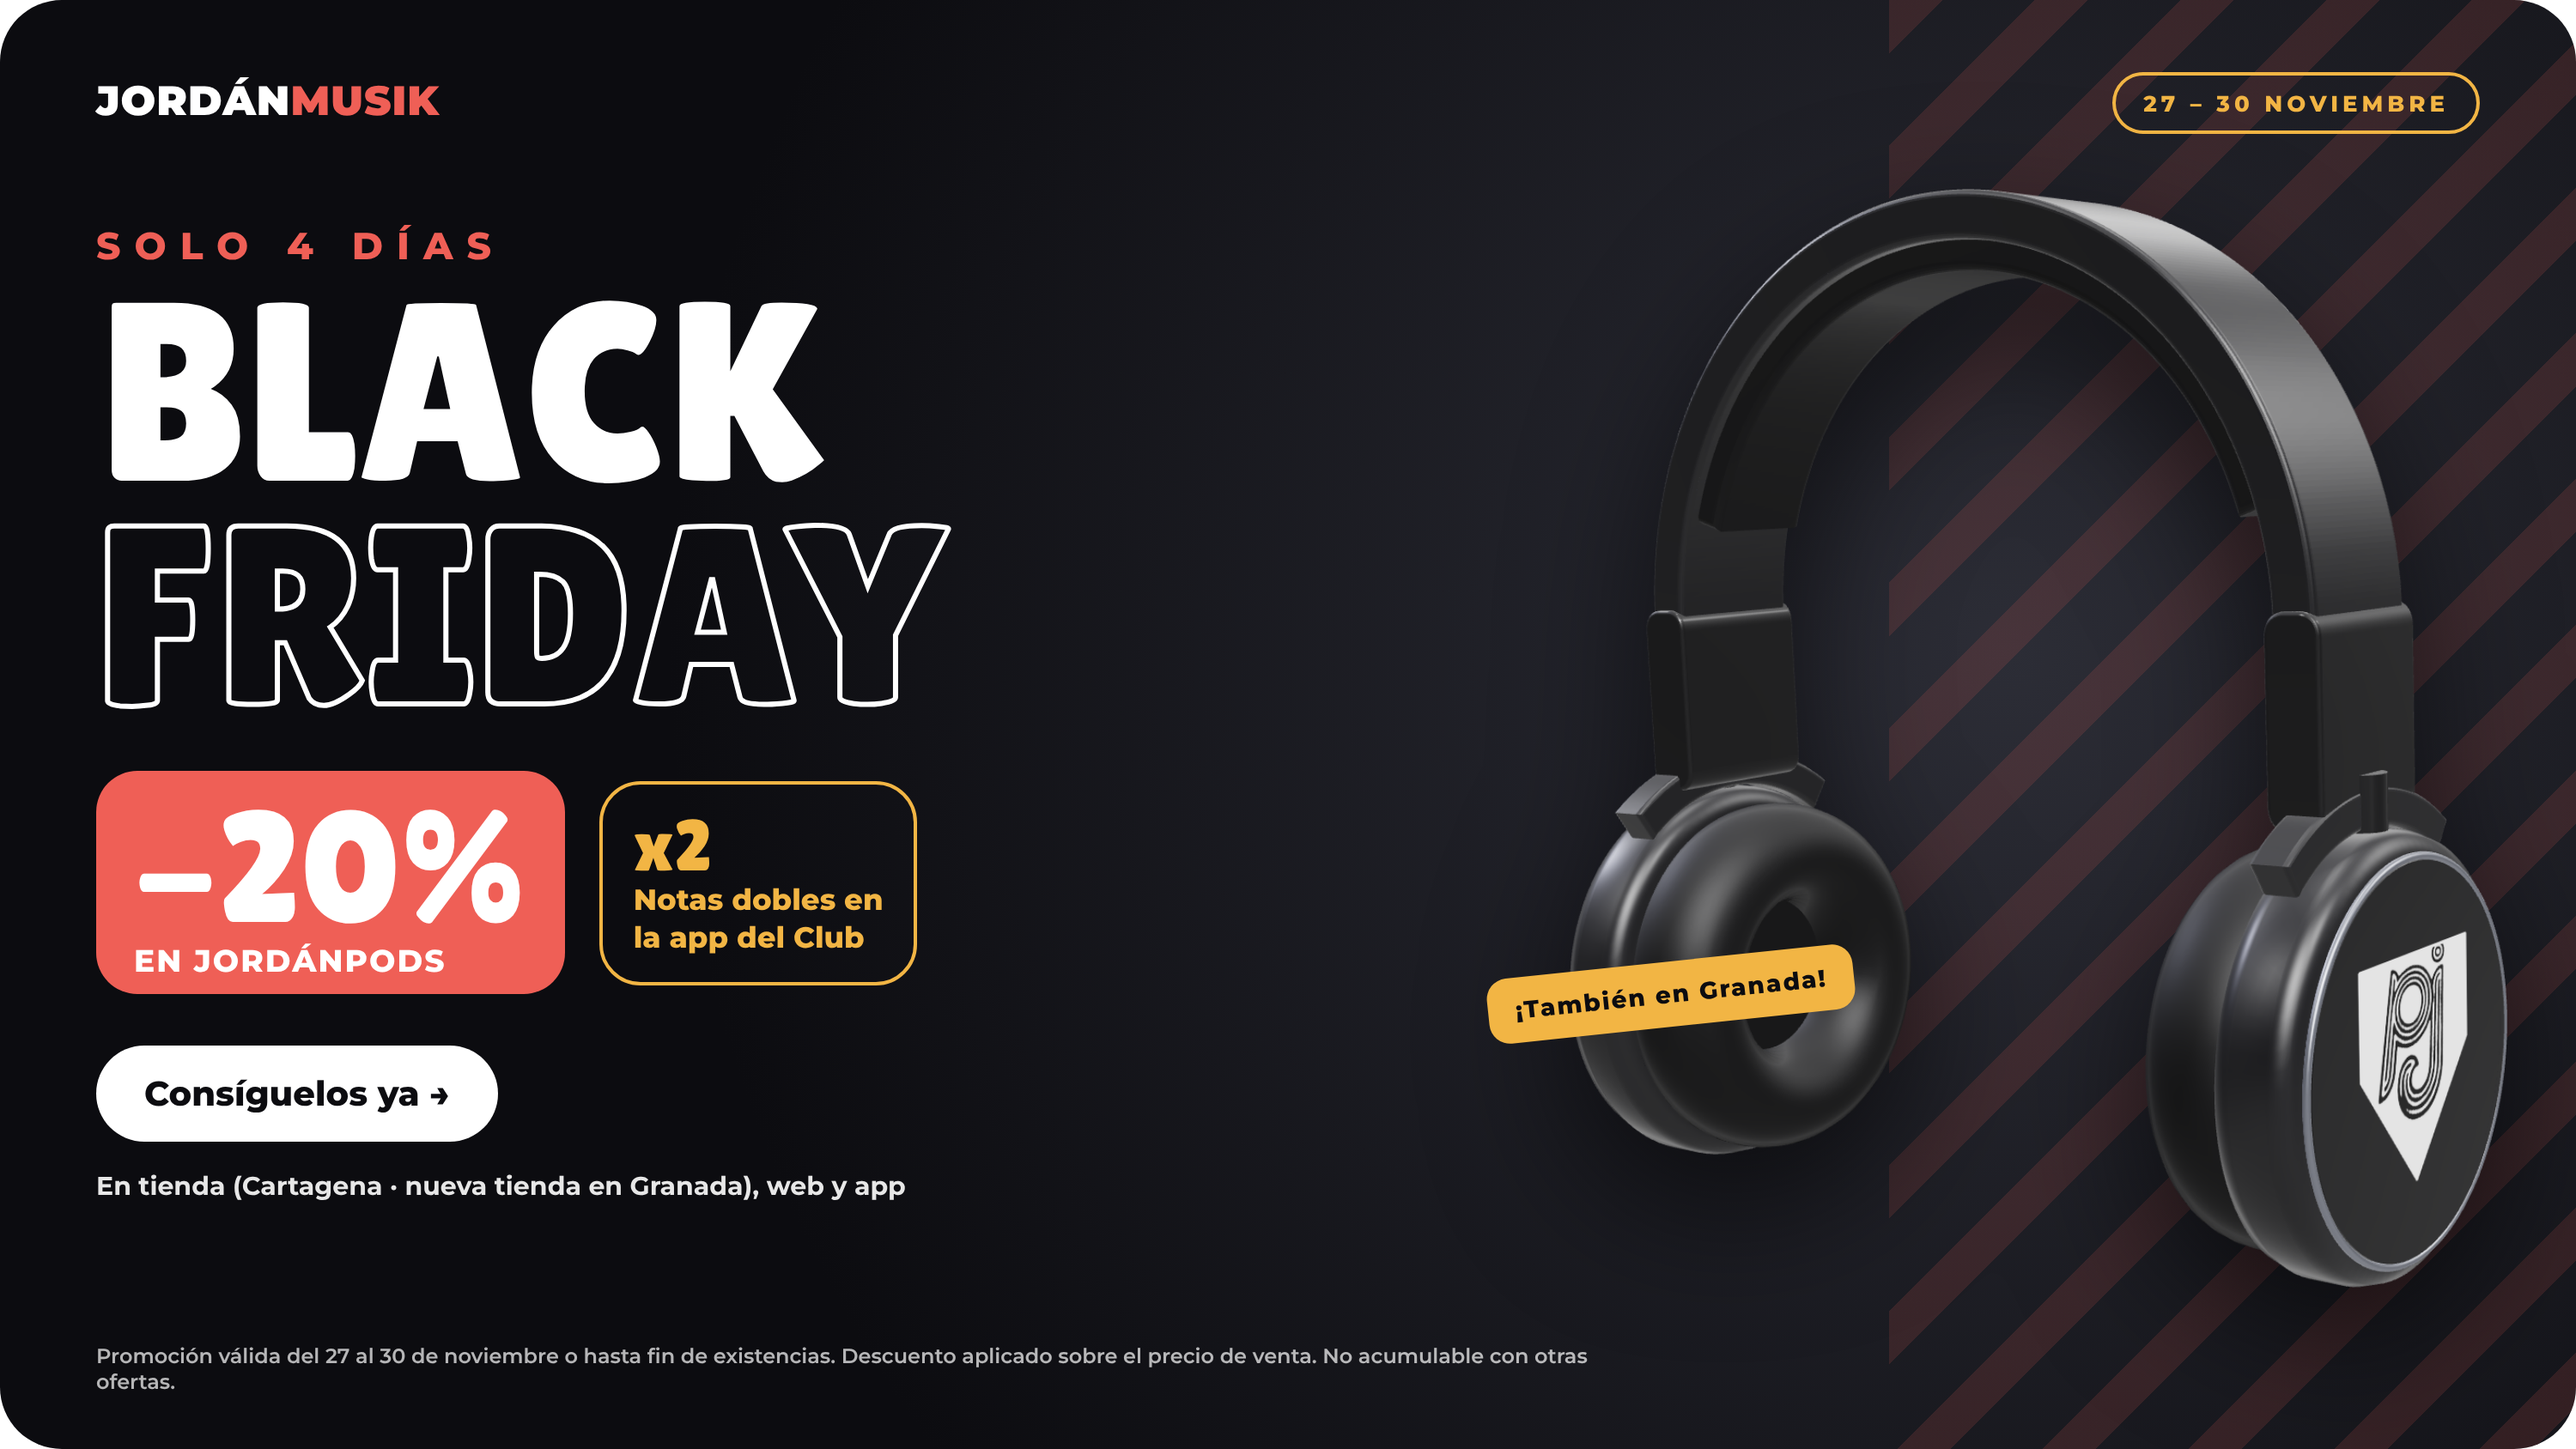
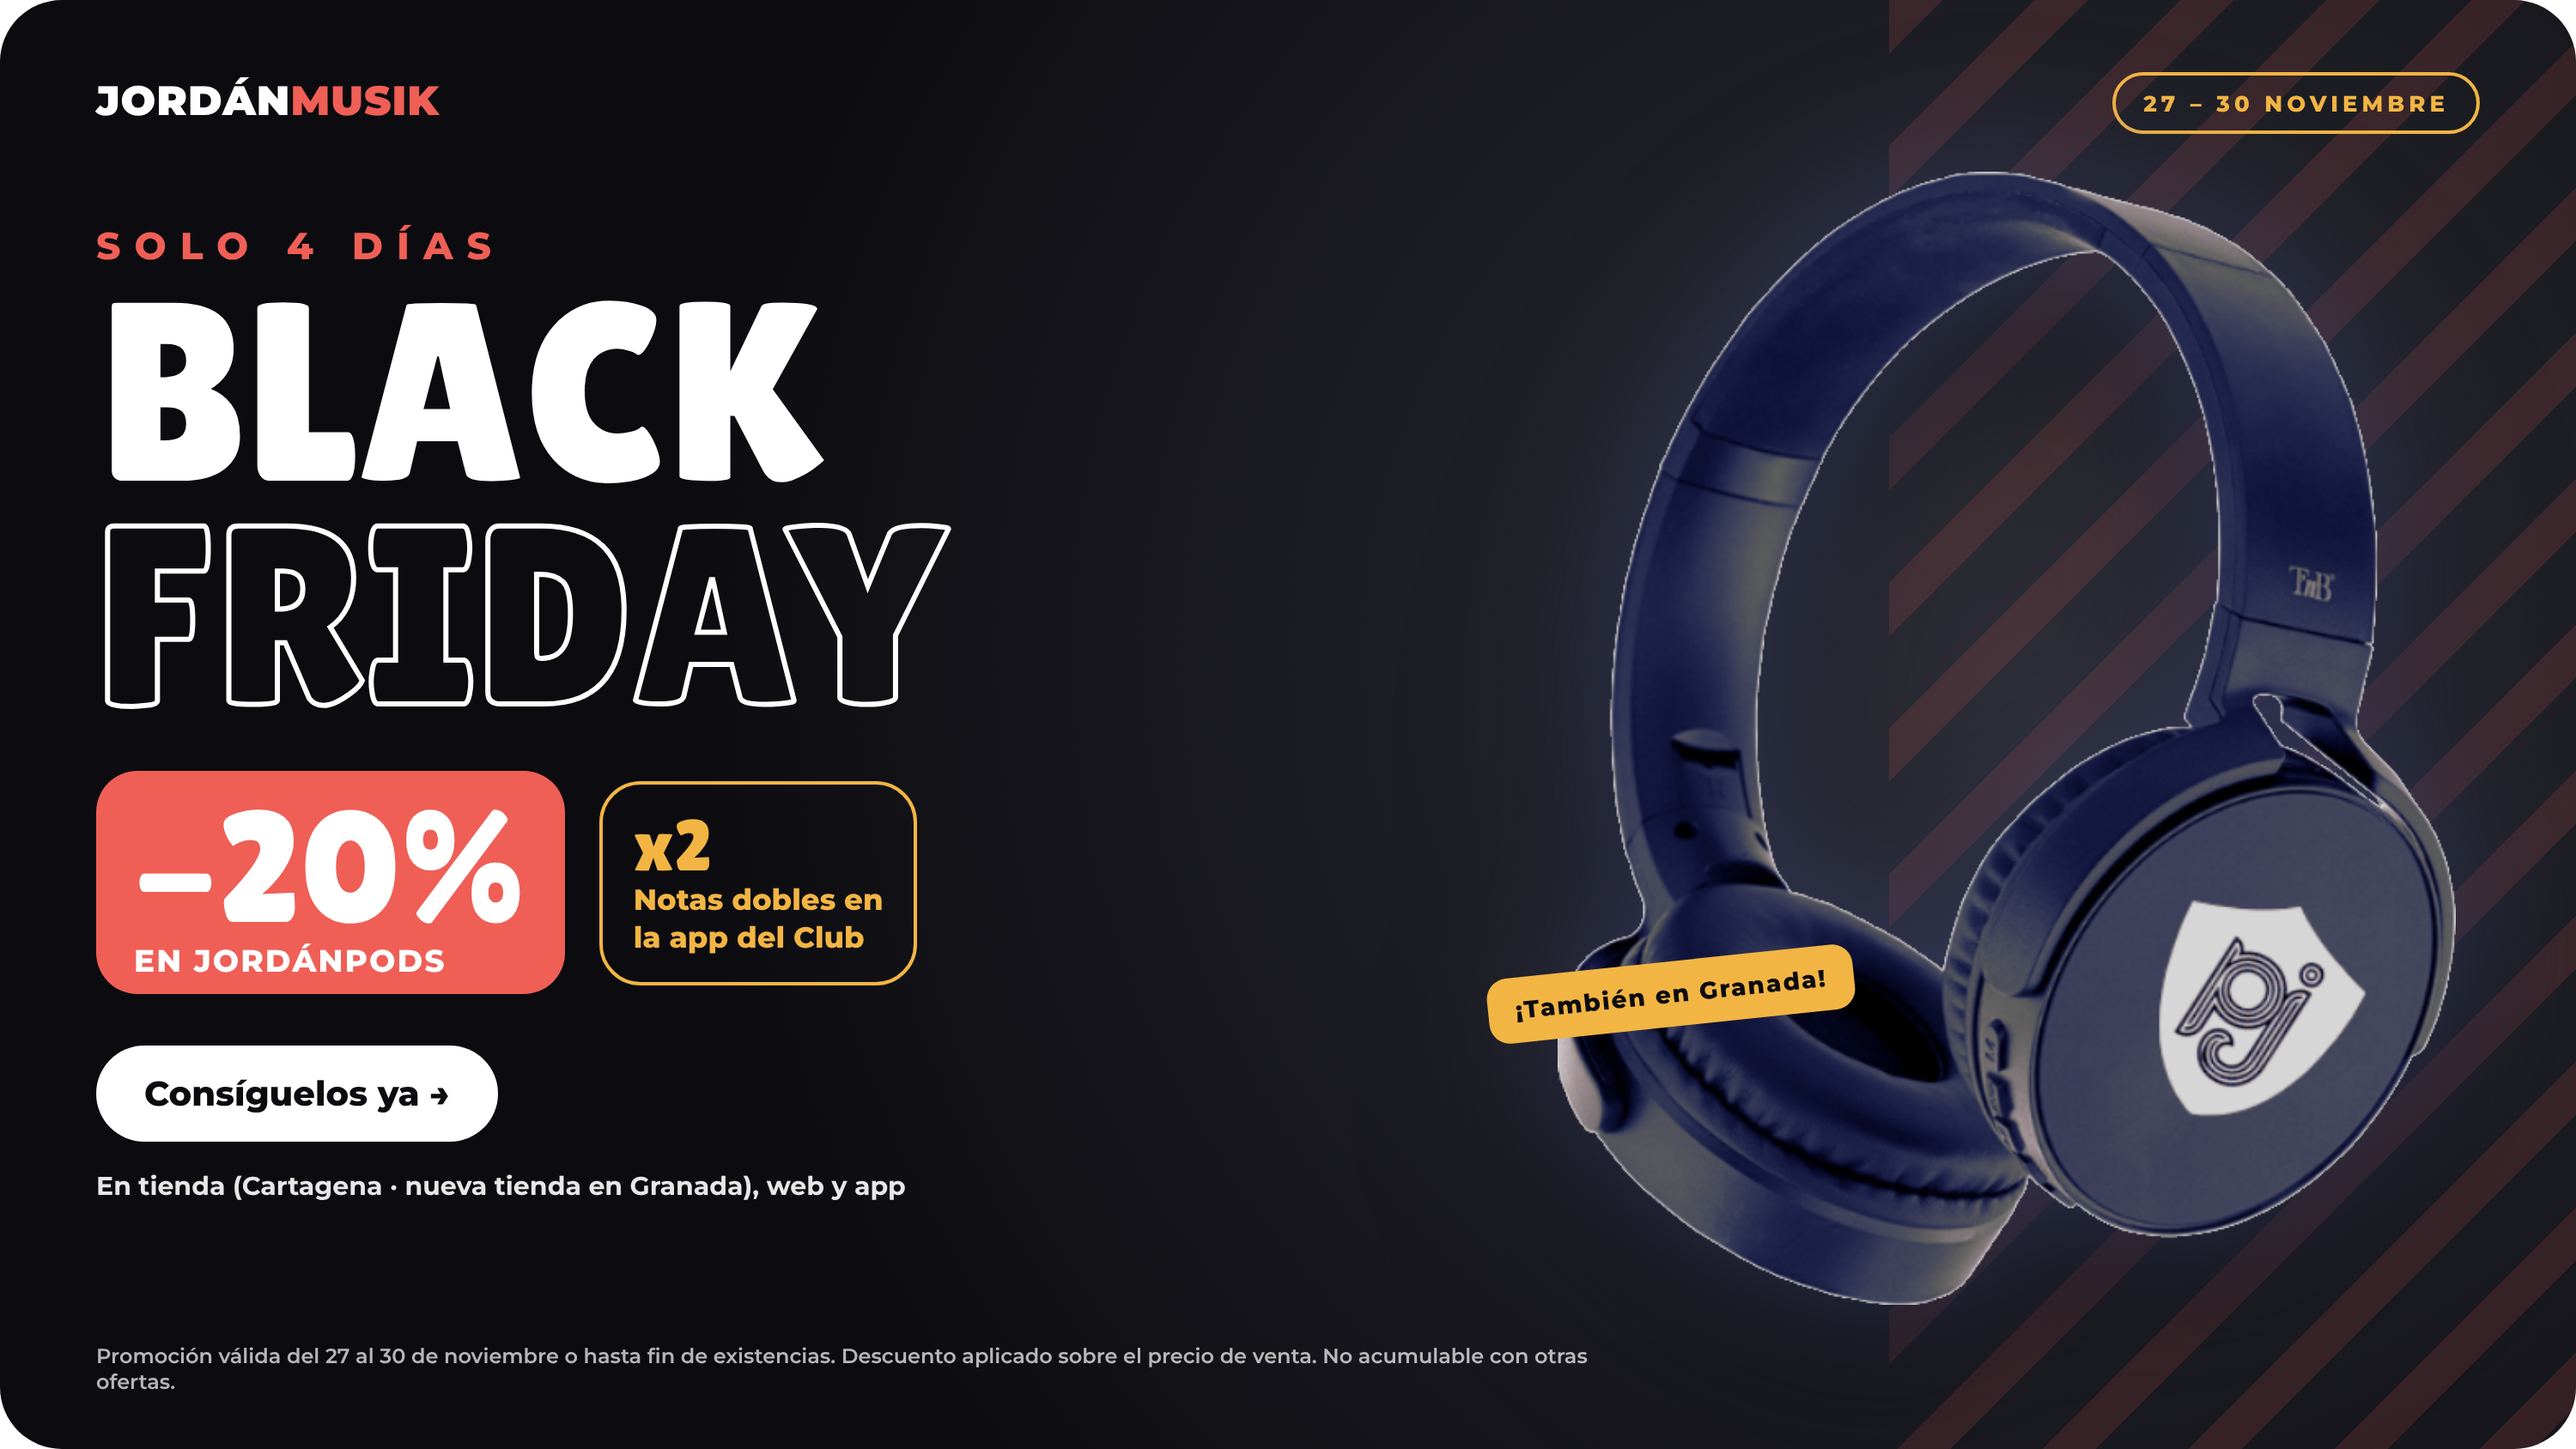
Folletos Black Friday y vuelta a clase con la foto original de los JORDÁNPODS
Claude-Session: https://claude.ai/code/session_01QoRa6H288JEqWWG4NNqZ48

Changed region(s): [[0.589, 0.1232, 0.992, 0.9242]]

diff --git a/folletos/diseno_folletos.html b/folletos/diseno_folletos.html
@@ -26,7 +26,7 @@ body{background:transparent;font-family:Mont,sans-serif}
 .bf .x2{border:2px solid #F2B544;color:#F2B544;border-radius:24px;padding:14px 18px;font-weight:800;font-size:17px;line-height:1.35}
 .bf .x2 b{font-family:Lilita;font-weight:400;font-size:42px;display:block;line-height:1}
 .bf .cta{background:#fff;color:#0c0c10;margin-top:30px}
-.bf .img{position:absolute;right:40px;top:110px;height:640px;filter:drop-shadow(0 30px 40px rgba(0,0,0,.6))}
+.bf .img{position:absolute;right:70px;top:100px;height:660px;filter:drop-shadow(0 0 40px rgba(111,123,207,.35)) drop-shadow(0 30px 40px rgba(0,0,0,.6))}
 .bf .stripe{position:absolute;right:-120px;top:0;width:520px;height:100%;background:repeating-linear-gradient(135deg,rgba(239,95,86,.14) 0 22px,transparent 22px 60px)}
 .bf .tag{position:absolute;right:420px;top:560px;background:#F2B544;color:#0c0c10;font-weight:800;font-size:14px;letter-spacing:1px;padding:10px 16px;border-radius:12px;transform:rotate(-6deg)}
 
@@ -69,7 +69,7 @@ body{background:transparent;font-family:Mont,sans-serif}
 .vc .ticket b{font-size:18px;display:block}
 .vc .ticket span{font-size:14px;font-weight:600;color:#5d6690}
 .vc .cta{background:#232F5F;color:#fff;margin-top:24px}
-.vc .img{position:absolute;right:70px;top:140px;height:560px;transform:rotate(8deg);filter:drop-shadow(0 26px 26px rgba(35,47,95,.35))}
+.vc .img{position:absolute;right:80px;top:120px;height:600px;transform:rotate(6deg);filter:drop-shadow(0 26px 26px rgba(35,47,95,.35))}
 .vc .doodle{position:absolute;font-family:Lilita;color:#3F7E8F}
 .vc .note{position:absolute;right:560px;top:150px;z-index:2;background:#F2B544;width:150px;padding:16px;transform:rotate(-7deg);font-weight:800;font-size:15px;line-height:1.3;box-shadow:0 10px 18px -10px rgba(0,0,0,.4)}
 </style></head><body>
@@ -89,7 +89,7 @@ body{background:transparent;font-family:Mont,sans-serif}
   <div class="cta">Consíguelos ya →</div>
   <div class="where">En tienda (Cartagena · nueva tienda en Granada), web y app</div>
  </div>
- <img class="img" src="r1.png" alt="">
+ <img class="img" src="jordanpods.png" alt="">
  <div class="tag">¡También en Granada!</div>
  <div class="legal">Promoción válida del 27 al 30 de noviembre o hasta fin de existencias. Descuento aplicado sobre el precio de venta. No acumulable con otras ofertas.</div>
 </div></div>
@@ -130,7 +130,7 @@ body{background:transparent;font-family:Mont,sans-serif}
   <div class="where">En tienda (Cartagena · Granada), web y app</div>
  </div>
  <div class="note">✏ +10 Notas extra si te registras en la app este mes</div>
- <img class="img" src="r4.png" alt="">
+ <img class="img" src="jordanpods.png" alt="">
  <span class="doodle" style="right:90px;top:70px;font-size:46px;transform:rotate(12deg)">♪</span>
  <span class="doodle" style="right:520px;top:620px;font-size:38px;color:#EF5F56;transform:rotate(-10deg)">★</span>
  <span class="doodle" style="right:40px;top:690px;font-size:40px;color:#F2B544">♫</span>
